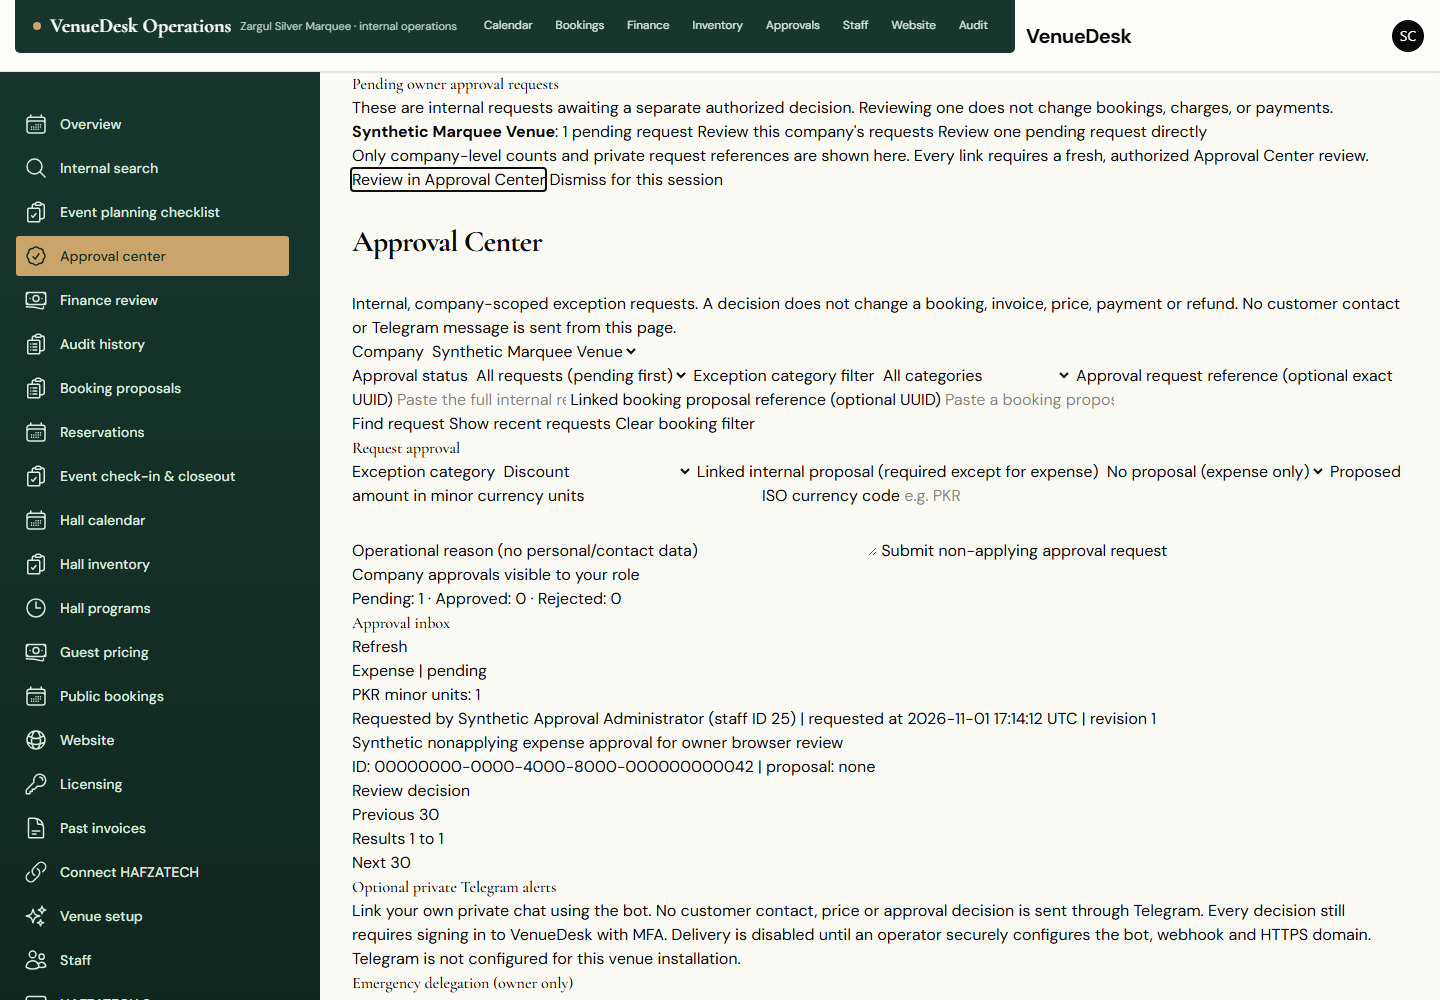
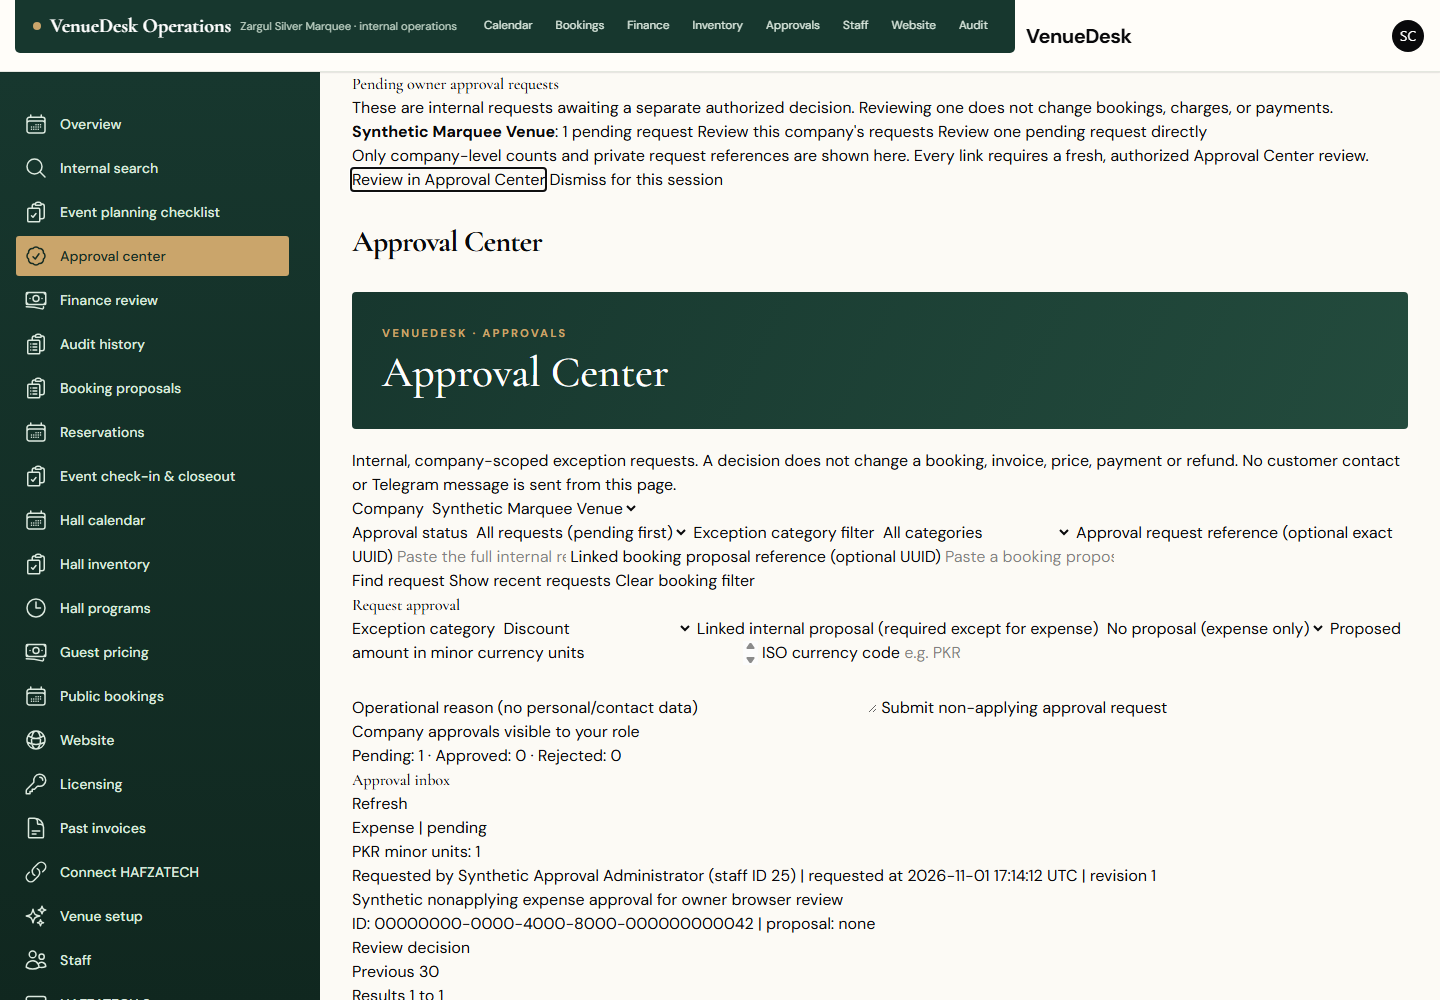
feat(ui): unify operational module layouts with VenueDesk headers

Changed region(s): [[0.2188, 0.279, 1.0, 1.0]]

diff --git a/backend/resources/views/filament/pages/booking-proposals.blade.php b/backend/resources/views/filament/pages/booking-proposals.blade.php
@@ -1,5 +1,6 @@
 <x-filament-panels::page>
     <div class="space-y-6">
+        <x-venuedesk.header eyebrow="VenueDesk · Bookings" title="Booking Proposals" />
         <p class="text-sm text-gray-600 dark:text-gray-300">
             Internal booking proposals for owner/admin review and safe draft editing. These are NOT confirmed bookings or holds.
             Availability, prices, consent and booking approval must be checked separately. No customer contact is displayed.

diff --git a/backend/resources/views/filament/pages/finance-desk.blade.php b/backend/resources/views/filament/pages/finance-desk.blade.php
@@ -1,5 +1,6 @@
 <x-filament-panels::page>
     <div class="space-y-6">
+        <x-venuedesk.header eyebrow="VenueDesk · Finance" title="Finance Review" />
         <p class="text-sm text-gray-700 dark:text-gray-300">
             Finance review is internal only. A rental-price preview is NOT an invoice, quote to a client,
             receipt, tax calculation or authorization to charge. Payments and refunds are NOT connected.

diff --git a/backend/resources/views/filament/pages/approval-center.blade.php b/backend/resources/views/filament/pages/approval-center.blade.php
@@ -1,5 +1,6 @@
 <x-filament-panels::page>
     <div class="space-y-6">
+        <x-venuedesk.header eyebrow="VenueDesk · Approvals" title="Approval Center" />
         <p class="text-sm text-gray-600 dark:text-gray-300">
             Internal, company-scoped exception requests. A decision does not change a booking, invoice,
             price, payment or refund. No customer contact or Telegram message is sent from this page.

diff --git a/backend/resources/views/filament/pages/hall-inventory.blade.php b/backend/resources/views/filament/pages/hall-inventory.blade.php
@@ -1,5 +1,6 @@
 <x-filament-panels::page>
     <div class="space-y-6" x-data="{ focused: true, area: 'overview' }">
+        <x-venuedesk.header eyebrow="VenueDesk · Inventory" title="Hall Inventory" />
         <p class="text-sm text-gray-600 dark:text-gray-300">
             Hall-owned inventory catalog and witnessed physical count records.
             Creating an item does not purchase inventory or change owned stock.

diff --git a/backend/resources/views/filament/pages/website-workspace.blade.php b/backend/resources/views/filament/pages/website-workspace.blade.php
@@ -1,5 +1,6 @@
 <x-filament-panels::page>
     <div class="space-y-6">
+        <x-venuedesk.header eyebrow="VenueDesk · Website" title="Website & CMS" />
         <p class="text-sm text-gray-600 dark:text-gray-300">
             Edit typed website sections, then save a draft for review. Only publishing changes the approved public snapshot.
         </p>

diff --git a/backend/resources/views/filament/pages/staff-management.blade.php b/backend/resources/views/filament/pages/staff-management.blade.php
@@ -1,5 +1,6 @@
 <x-filament-panels::page>
     <div class="space-y-6">
+        <x-venuedesk.header eyebrow="VenueDesk · Staff" title="Staff & Access" />
         <p class="text-sm">Staff access requires acceptance, email verification and MFA. Invitations never create a default password.</p>
 
         @if ($message)

diff --git a/backend/resources/views/components/venuedesk/header.blade.php b/backend/resources/views/components/venuedesk/header.blade.php
@@ -1,0 +1,8 @@
+@props(['eyebrow' => 'VenueDesk', 'title' => 'Operational workspace'])
+<section class="vd-hero">
+    <span class="eyebrow">{{ $eyebrow }}</span>
+    <div class="vd-hero-title" role="presentation">{{ $title }}</div>
+    @if (trim($slot) !== '')
+        <p>{{ $slot }}</p>
+    @endif
+</section>
